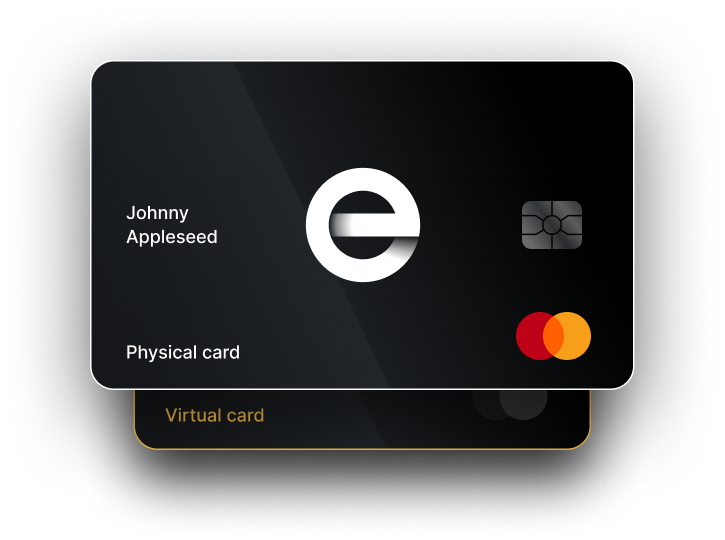
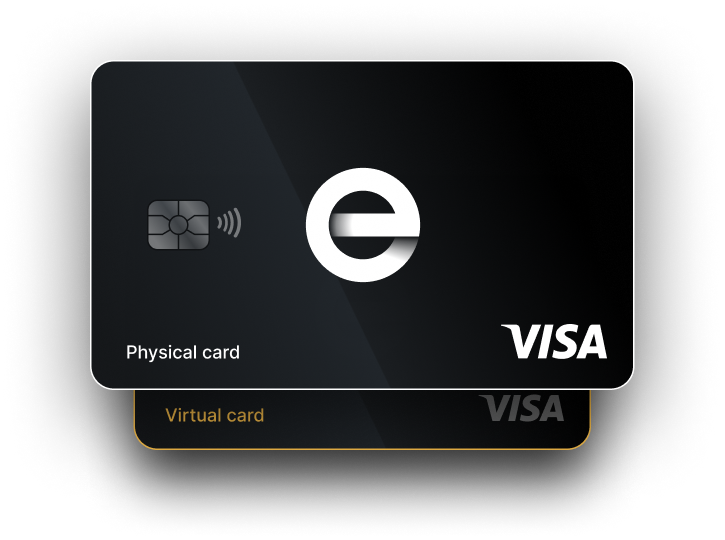
New customerio submit and updated visuals for bank approval

diff --git a/index.html b/index.html
@@ -105,9 +105,9 @@
         <div class="tile gray double-width double-height-during-2-col slide-up-far delay100">
 
           <div class="container-tile-double-width-text">
-            <h3 class="tile-title">Safe Money</h3>
+            <h3 class="tile-title">Safe to Spend</h3>
             <p class="tile-description-double-width top">
-              Money can be moved to envelopes on your schedule, leaving you your available-to-spend amount which we call “Safe Money”. 
+              Money can be moved to envelopes on your schedule, leaving you your available-to-spend amount which we call “Safe to Spend". 
             </p>
 
             <p class="tile-description-double-width">
@@ -174,13 +174,13 @@
         </div>
 
 
-        <div id="bank-disclosure-container" class="vstack left">
+<!--         <div id="bank-disclosure-container" class="vstack left">
             <div id="bank-disclosure" class="vstack left">
 
                 <p id="disclosure-text">
                     Banking services provided by Evolve Bank and Trust, Members FDIC. 
 
-                    The Envelope Money card is issued by Evolve Bank and Trust, Member FDIC, pursuant to license by MasterCard. © Copyright 2022 Envelope Money, Inc.
+                    The Envelope Money card is issued by Evolve Bank and Trust, Member FDIC, pursuant to license by Visa. © Copyright 2022 Envelope Money, Inc.
                 </p>
 
                 <div class="row-fdic">
@@ -192,7 +192,7 @@
                     </p>
                 </div>
             </div>
-        </div>
+        </div> -->
 
       </div>
 
@@ -249,43 +249,101 @@
       // });
     }
 
+    // When submit happens
     function addFormValidation() {
 
-        let form = document.querySelector('#signUpForm');
-        form.addEventListener('submit', function (event) {
-            event.preventDefault();
-            // if the email field is valid, we let the form submit
+      let form = document.querySelector('#signUpForm');
+      form.addEventListener('submit', function (event) {
+        event.preventDefault();
+        // if the email field is valid, we let the form submit
 
-            let isFormValid = document.querySelector('#signUpForm').checkValidity();
+        let isFormValid = document.querySelector('#signUpForm').checkValidity();
 
-            // console.log("check validity..");
-            // console.log(isFormValid);
+        // console.log("check validity..");
+        // console.log(isFormValid);
 
-            if(!isFormValid) {
-                // showError();
-                return false;
-            }
-
-            submitEmail();
+        if(!isFormValid) {
+            // showError();
             return false;
-        });
+        }
+
+        submitEmail();
+        return false; // TODO: why is this false??
+      });
     }
 
     function formSuccess() {
-        // // hide form
-        // document.querySelector("#signUpForm").style.display = "none"; 
+      console.log("formSuccess..");
+      // // hide form
 
-        // show success
-        document.querySelector("#form-buttons").classList.add("hidden");
-        document.querySelector("#form-success-text").classList.remove("hidden");
+      // show success
+      document.querySelector("#form-buttons").classList.add("hidden");
+      document.querySelector("#form-success-text").classList.remove("hidden");
     }
 
     function formFailed() {
-        console.log("failed..");
+      console.log("failed..");
     }
 
     async function submitEmail() {
-        // alert('hey');
+      await Promise.all([submitEmailGoogleSheets(), submitEmailCustomerIo()])
+        .then(success => {
+          formSuccess();
+        })
+        .catch(err => {
+          console.log(err);
+          formFailed();
+        }) // 'sad'
+    }
+
+    async function submitEmailCustomerIo() {
+      return new Promise(async (resolve, reject) => {
+        const email = document.querySelector('#form-email').value;
+
+        const formId = 'em_waitlist_001';
+
+        let url = `https://track.customer.io/api/v1/forms/${formId}/submit`; // 73662474
+
+        // {"data":{"email":"test@customer.io"}}
+
+        // curl --request POST \
+        //   --url https://track.customer.io/api/v1/forms/{{form_id}}/submit \
+        //   --header "Authorization: Basic $(echo -n \
+        //   b2e05987e83b906afdb4:aeab751937582656481b | base64)" \
+        //   --header 'content-type: application/json' \
+        //   --data '{"data":{"email":"test@customer.io"}}'
+
+        fetch(url, {
+            method: 'POST', // *GET, POST, PUT, DELETE, etc.
+            mode: 'no-cors', // no-cors, *cors, same-origin
+            headers: {
+              'Authorization': 'Basic YjJlMDU5ODdlODNiOTA2YWZkYjQ6YWVhYjc1MTkzNzU4MjY1NjQ4MWI=',
+              // 'Content-Type': 'application/x-www-form-urlencoded'
+              'content-type': 'application/json'
+            },
+            body: JSON.stringify({
+              "data": {
+                "email": email
+              }
+            })
+          })
+        .then(response => {
+          console.log("finished customerIO submit");
+          console.log(response);
+            resolve();
+        })
+        .catch((error) => {
+          console.log("finished customerIO submit ERR");
+            console.log(error);
+            reject();
+        });
+      });
+
+    }
+
+    async function submitEmailGoogleSheets() {
+      return new Promise(async (resolve, reject) => {
+
         let email = document.querySelector('#form-email').value;
 
         let url = 'https://docs.google.com/forms/d/e/1FAIpQLSd7iIcmjpMEfz6d95CoSGtLxUZjAD0woT9ygu_NgaIg1vkHFg/formResponse?entry.73662474=' + email; // 73662474
@@ -298,12 +356,14 @@
             },
           })
         .then(response => {
-            formSuccess();
+            resolve();
         })
         .catch((error) => {
             console.log(error);
-            formFailed();
+            reject();
         });
+
+      });
     }
 
     function joinButtonClicked() {
@@ -313,8 +373,8 @@
 
     function callbackFunc(entries, observer) {
       entries.forEach(entry => {
-        console.log(entry.isIntersecting);
-        console.log(entry.target.id);
+        // console.log(entry.isIntersecting);
+        // console.log(entry.target.id);
 
         if (entry.isIntersecting) {
           entry.target.classList.add('loaded');
@@ -341,7 +401,7 @@
       const elements = document.querySelectorAll('.slide-up-far');
 
       elements.forEach(e => {
-        console.log(screen.width);
+        // console.log(screen.width);
         if (screen.width < 1000) {
           e.classList.add('loaded'); // Insta slide on mobile
         } else {
